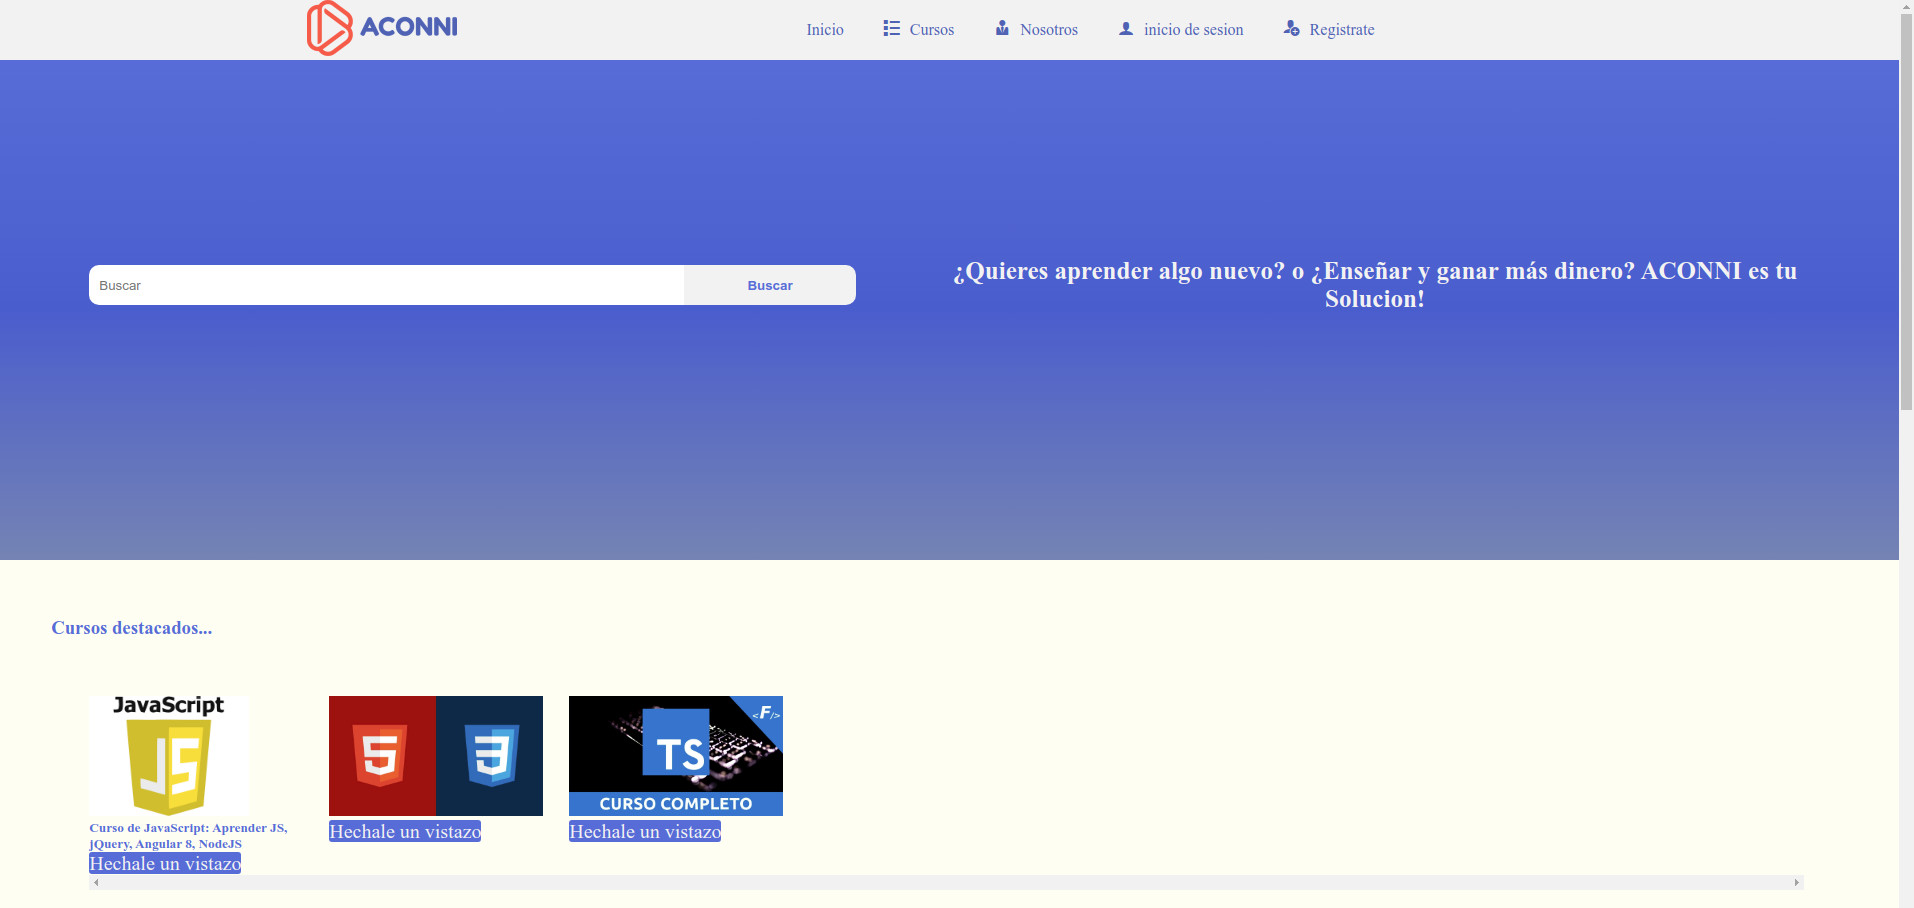
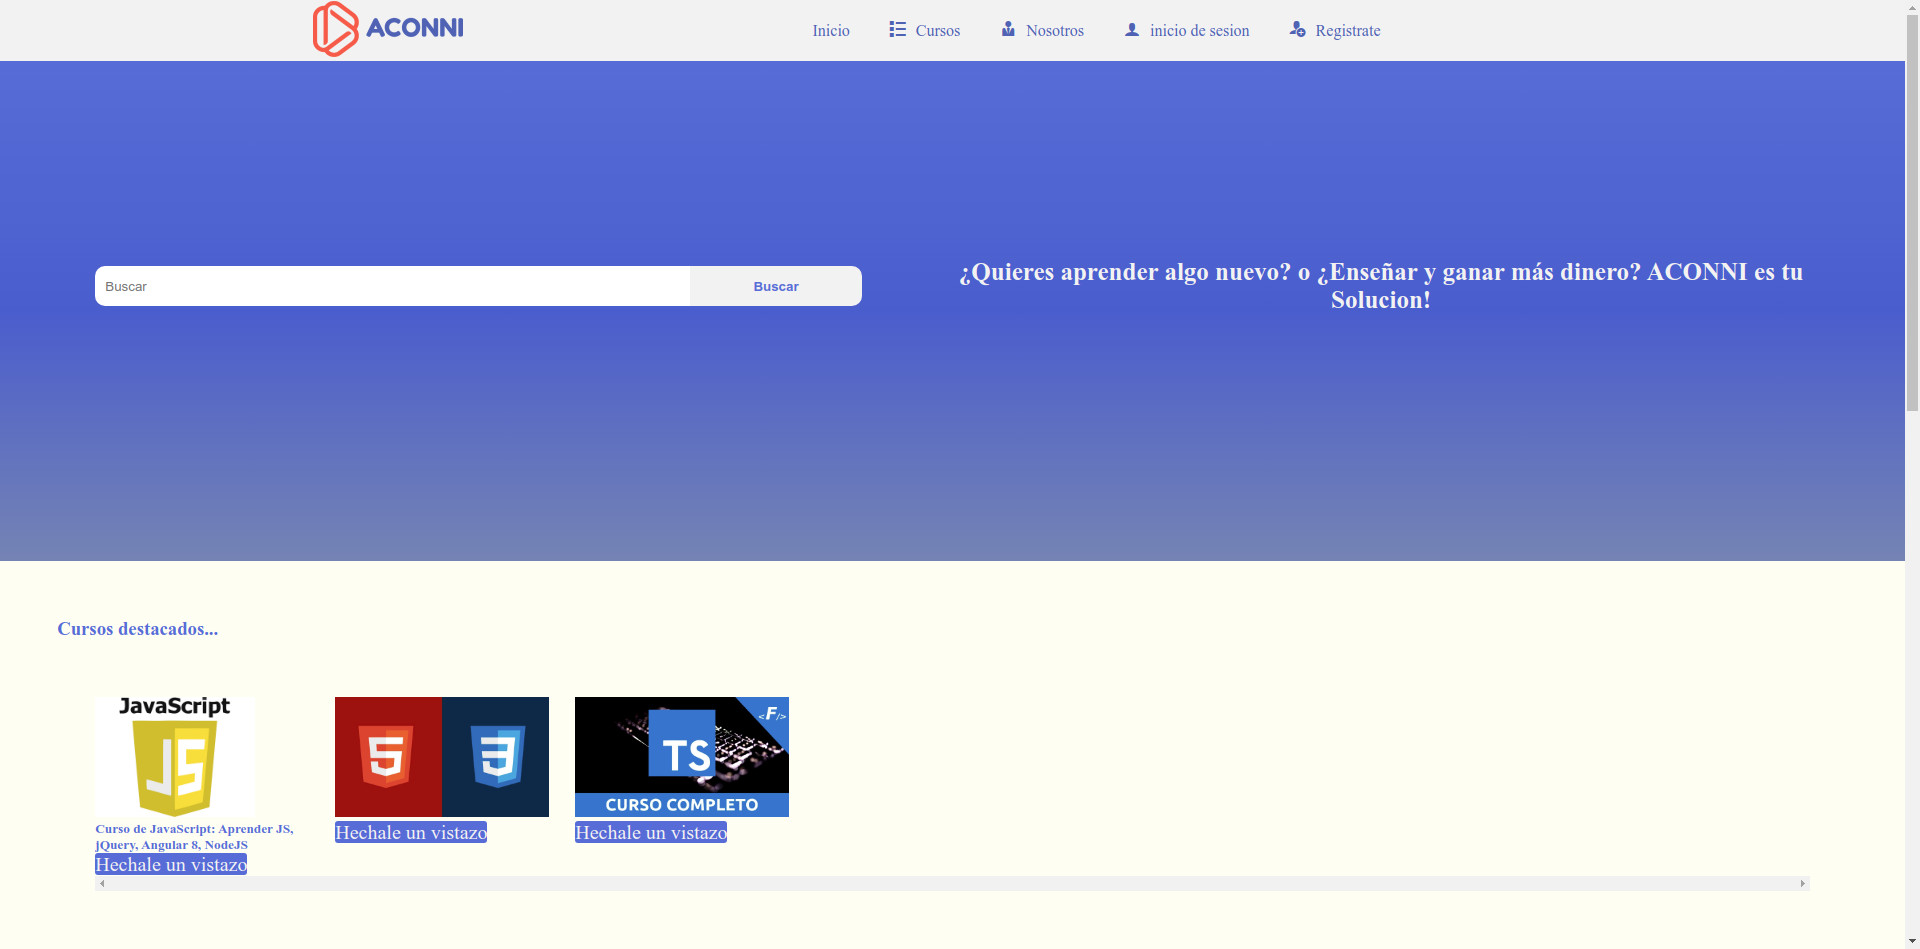
Mejora carousel

diff --git a/lib/owl.carousel.min.css b/lib/owl.carousel.min.css
@@ -3,4 +3,4 @@
  * Copyright 2013-2018 David Deutsch
  * Licensed under: SEE LICENSE IN https://github.com/OwlCarousel2/OwlCarousel2/blob/master/LICENSE
  */
-.owl-carousel,.owl-carousel .owl-item{-webkit-tap-highlight-color:transparent;position:relative}.owl-carousel{display:none;width:100%;z-index:1}.owl-carousel .owl-stage{position:relative;-ms-touch-action:pan-Y;touch-action:manipulation;-moz-backface-visibility:hidden}.owl-carousel .owl-stage:after{content:".";display:block;clear:both;visibility:hidden;line-height:0;height:0}.owl-carousel .owl-stage-outer{position:relative;overflow:hidden;-webkit-transform:translate3d(0,0,0)}.owl-carousel .owl-item,.owl-carousel .owl-wrapper{-webkit-backface-visibility:hidden;-moz-backface-visibility:hidden;-ms-backface-visibility:hidden;-webkit-transform:translate3d(0,0,0);-moz-transform:translate3d(0,0,0);-ms-transform:translate3d(0,0,0)}.owl-carousel .owl-item{min-height:1px;float:left;-webkit-backface-visibility:hidden;-webkit-touch-callout:none}.owl-carousel .owl-item img{display:block;width:100%}.owl-carousel .owl-dots.disabled,.owl-carousel .owl-nav.disabled{display:none}.no-js .owl-carousel,.owl-carousel.owl-loaded{display:block}.owl-carousel .owl-dot,.owl-carousel .owl-nav .owl-next,.owl-carousel .owl-nav .owl-prev{cursor:pointer;-webkit-user-select:none;-khtml-user-select:none;-moz-user-select:none;-ms-user-select:none;user-select:none}.owl-carousel .owl-nav button.owl-next,.owl-carousel .owl-nav button.owl-prev,.owl-carousel button.owl-dot{background:0 0;color:inherit;border:none;padding:0!important;font:inherit}.owl-carousel.owl-loading{opacity:0;display:block}.owl-carousel.owl-hidden{opacity:0}.owl-carousel.owl-refresh .owl-item{visibility:hidden}.owl-carousel.owl-drag .owl-item{-ms-touch-action:pan-y;touch-action:pan-y;-webkit-user-select:none;-moz-user-select:none;-ms-user-select:none;user-select:none}.owl-carousel.owl-grab{cursor:move;cursor:grab}.owl-carousel.owl-rtl{direction:rtl}.owl-carousel.owl-rtl .owl-item{float:right}.owl-carousel .animated{animation-duration:1s;animation-fill-mode:both}.owl-carousel .owl-animated-in{z-index:0}.owl-carousel .owl-animated-out{z-index:1}.owl-carousel .fadeOut{animation-name:fadeOut}@keyframes fadeOut{0%{opacity:1}100%{opacity:0}}.owl-height{transition:height .5s ease-in-out}.owl-carousel .owl-item .owl-lazy{opacity:0;transition:opacity .4s ease}.owl-carousel .owl-item .owl-lazy:not([src]),.owl-carousel .owl-item .owl-lazy[src^=""]{max-height:0}.owl-carousel .owl-item img.owl-lazy{transform-style:preserve-3d}.owl-carousel .owl-video-wrapper{position:relative;height:100%;background:#000}.owl-carousel .owl-video-play-icon{position:absolute;height:80px;width:80px;left:50%;top:50%;margin-left:-40px;margin-top:-40px;background:url(owl.video.play.png) no-repeat;cursor:pointer;z-index:1;-webkit-backface-visibility:hidden;transition:transform .1s ease}.owl-carousel .owl-video-play-icon:hover{-ms-transform:scale(1.3,1.3);transform:scale(1.3,1.3)}.owl-carousel .owl-video-playing .owl-video-play-icon,.owl-carousel .owl-video-playing .owl-video-tn{display:none}.owl-carousel .owl-video-tn{opacity:0;height:100%;background-position:center center;background-repeat:no-repeat;background-size:contain;transition:opacity .4s ease}.owl-carousel .owl-video-frame{position:relative;z-index:1;height:100%;width:100%}
+.owl-carousel,.owl-carousel .owl-item{-webkit-tap-highlight-color:transparent;position:relative}.owl-carousel{display:none;width:100%;z-index:1}.owl-carousel .owl-stage{position:relative;-ms-touch-action:pan-Y;touch-action:manipulation;-moz-backface-visibility:hidden}.owl-carousel .owl-stage:after{content:".";display:block;clear:both;visibility:hidden;line-height:0;height:0}.owl-carousel .owl-stage-outer{position:relative;overflow:hidden;-webkit-transform:translate3d(0,0,0)}.owl-carousel .owl-item,.owl-carousel .owl-wrapper{-webkit-backface-visibility:hidden;-moz-backface-visibility:hidden;-ms-backface-visibility:hidden;-webkit-transform:translate3d(0,0,0);-moz-transform:translate3d(0,0,0);-ms-transform:translate3d(0,0,0)}.owl-carousel .owl-item{min-height:1px;float:left;-webkit-backface-visibility:hidden;-webkit-touch-callout:none}.owl-carousel .owl-item img{display:block;width:95%}.owl-carousel .owl-dots.disabled,.owl-carousel .owl-nav.disabled{display:none}.no-js .owl-carousel,.owl-carousel.owl-loaded{display:block}.owl-carousel .owl-dot,.owl-carousel .owl-nav .owl-next,.owl-carousel .owl-nav .owl-prev{cursor:pointer;-webkit-user-select:none;-khtml-user-select:none;-moz-user-select:none;-ms-user-select:none;user-select:none}.owl-carousel .owl-nav button.owl-next,.owl-carousel .owl-nav button.owl-prev,.owl-carousel button.owl-dot{background:0 0;color:inherit;border:none;padding:0!important;font:inherit}.owl-carousel.owl-loading{opacity:0;display:block}.owl-carousel.owl-hidden{opacity:0}.owl-carousel.owl-refresh .owl-item{visibility:hidden}.owl-carousel.owl-drag .owl-item{-ms-touch-action:pan-y;touch-action:pan-y;-webkit-user-select:none;-moz-user-select:none;-ms-user-select:none;user-select:none}.owl-carousel.owl-grab{cursor:move;cursor:grab}.owl-carousel.owl-rtl{direction:rtl}.owl-carousel.owl-rtl .owl-item{float:right}.owl-carousel .animated{animation-duration:1s;animation-fill-mode:both}.owl-carousel .owl-animated-in{z-index:0}.owl-carousel .owl-animated-out{z-index:1}.owl-carousel .fadeOut{animation-name:fadeOut}@keyframes fadeOut{0%{opacity:1}100%{opacity:0}}.owl-height{transition:height .5s ease-in-out}.owl-carousel .owl-item .owl-lazy{opacity:0;transition:opacity .4s ease}.owl-carousel .owl-item .owl-lazy:not([src]),.owl-carousel .owl-item .owl-lazy[src^=""]{max-height:0}.owl-carousel .owl-item img.owl-lazy{transform-style:preserve-3d}.owl-carousel .owl-video-wrapper{position:relative;height:100%;background:#000}.owl-carousel .owl-video-play-icon{position:absolute;height:80px;width:80px;left:50%;top:50%;margin-left:-40px;margin-top:-40px;background:url(owl.video.play.png) no-repeat;cursor:pointer;z-index:1;-webkit-backface-visibility:hidden;transition:transform .1s ease}.owl-carousel .owl-video-play-icon:hover{-ms-transform:scale(1.3,1.3);transform:scale(1.3,1.3)}.owl-carousel .owl-video-playing .owl-video-play-icon,.owl-carousel .owl-video-playing .owl-video-tn{display:none}.owl-carousel .owl-video-tn{opacity:0;height:100%;background-position:center center;background-repeat:no-repeat;background-size:contain;transition:opacity .4s ease}.owl-carousel .owl-video-frame{position:relative;z-index:1;height:100%;width:100%}

diff --git a/index.html b/index.html
@@ -12,7 +12,7 @@
     <link href="https://fonts.googleapis.com/css?family=Merriweather&display=swap" rel="stylesheet">
 
     <!-- jQuery -->
-    <script type="text/javascript" src="js/jquery.js"></script>
+    <script type="text/javascript" src="lib/jquery.js"></script>
 
     <!-- carousel -->
     <link rel="stylesheet" href="lib/owl.carousel.min.css"> 
@@ -39,6 +39,9 @@
 #foto-perfil {
   border-radius: 80px;
   filter: drop-shadow(5px 5px 15px #444);
+}
+.item img {
+  filter: drop-shadow(3px 3px 3px #444);
 }
 </style>
   </head>
@@ -99,7 +102,7 @@
   <div class="Contenedor">
     <h3>Servicios</h3>
     <div class="Contenedor-servicios">
-      <div class="servicios violeta">
+      <div class="servicios amarillo">
         <h4>Función de la Web</h4>
         <p>Páginas web atractivas y funcionales con el objetivo de satisfacer todas tus expectativas. La importancia del diseño es fundamental para tener éxito y atraer a tus visitantes. También lo es la velocidad de carga del sitio web, deben ser rápidos para que el visitante tenga la mejor experiencia</p>
         <img class="icono" src="img/monitor.png">
@@ -113,7 +116,7 @@
         <img class="ondas" src="img/waves.png">
 
       </div>
-      <div class="servicios violeta">
+      <div class="servicios amarillo">
         <h4>SEO</h4>
         <p>Al crear sitios web, tengo muy en cuenta la optimización de motores de búsqueda (SEO). Llevo a cabo prácticas de SEO estándar en cada página del sitio web, lo que permite que tu sitio tenga una clasificación más alta en los resultados de Google y asi generar mas tráfico a la web</p>
         <img class="icono" src="img/seo.png">
@@ -127,7 +130,7 @@
         <img class="ondas" src="img/waves.png">
 
       </div>
-      <div class="servicios violeta">
+      <div class="servicios amarillo">
         <h4>Mantenimiento</h4>
         <p>Podés contactarme si necesitas actualizar tu página web, agregar nuevas secciones o cualquier cambio que necesites. Esto es perfecto para los sitios web de pequeñas empresas, donde no se necesita un diseñador de páginas web a tiempo completo, sino solo en distintas ocasiones</p>
         <img class="icono" src="img/mante.png">
@@ -167,21 +170,21 @@
   <div class="Contenedor">
     <h3>¿Por qué trabajar conmigo?</h3>
     <div class="contenedor-trabajar">
-      <div class="item">
+      <div class="items">
         <ul>
           <li><img src="img/velocidad.png"></li>
           <li>Velocidad</li>
           <li>Me aseguro de que tu web cargue entre 2 y 4 segundos (depende de la cantidad de contenido del sitio). Si una web tarda más de 5 segundos en cargar, el 70% de los usuarios lo cierra y no vuelve a entrar más</li>
         </ul>
       </div>
-      <div class="item">
+      <div class="items">
         <ul>
           <li><img src="img/mantenimiento.png"></li>
           <li>Mantenimiento</li>
           <li>Mantengo una comunicación constante con mi cliente, para enseñarle a modificar contenido mediante el panel de Wordpress o para cualquier duda/cambio que quiera hacer en su sitio web</li>
         </ul>
       </div>
-      <div class="item">
+      <div class="items">
         <ul>
           <li><img src="img/mobile2.png"></li>
           <li>Mobile Priority</li>
@@ -224,7 +227,7 @@
 
   <div class="Contenedor">
     <h3>Contacto</h3>
-    <form action="php/contact.php" method="POST" enctype="multipart/form-data"><!--post para que los datos se envien en forma oculta multipart para enviar archivos adjuntos-->
+    <form action="" method="POST" enctype="multipart/form-data"><!--post para que los datos se envien en forma oculta multipart para enviar archivos adjuntos-->
       <input type="text" placeholder="Nombre" name="name" pattern=[A-Z\sa-z]{3,20} required><!--php llama lo que este en el atributo name-->
       <input type="email" placeholder="Email" name="email" required>
       <textarea placeholder="Mensaje" name="message" required></textarea>

diff --git a/styles/style.css b/styles/style.css
@@ -42,7 +42,7 @@ header {
   margin-right: 0px;
   margin-bottom: 18vh;
   margin-left: 0px;*/
-  max-width: 1580px;
+  max-width: 1900px;
   width: 100%;
 }
 
@@ -123,9 +123,9 @@ h3{
   margin-bottom: 20px;
   height: 194px;
 }
-.Contenedor-servicios .violeta{/*llamada a los contenedores violestas que esten en .contedor-servicios*/
+.Contenedor-servicios .amarillo{/*llamada a los contenedores violestas que esten en .contedor-servicios*/
   background:
-  linear-gradient(to top, #5055df, #6d68f3);/*to top, para que el gradado valla de abajo hacia arriba herramientas: www.colorzila.com*/
+  linear-gradient(to top, #cfc312, #d6da17);/*to top, para que el gradado valla de abajo hacia arriba herramientas: www.colorzila.com*/
   box-shadow: 0 12px 30px 0 rgba(80, 85, 223, .37);/*box-shadow,la sombra del div. herramiento: www.cssmatic.com*/
 }
 .Contenedor-servicios .celeste {
@@ -155,6 +155,10 @@ span {
   text-align: center;
   color: #000;
 }
+.item img {
+  border: 5px solid black;
+  border-radius: 15px
+}
 
 /*Seccion por que trabjar conmigo*/
 
@@ -164,7 +168,7 @@ span {
   justify-content: space-around;
 }
 
-#por-que-trabajar .item {
+#por-que-trabajar .items {
   width: 28%;
   text-align: center;
 }
@@ -408,10 +412,10 @@ h3 {
 .contenedor-trabajar {
     flex-direction: column;
 }
-#por-que-trabajar .item {
+#por-que-trabajar .items {
     width: 100%;
 }
-.item ul {
+.items ul {
     padding: 0;
 }
 #blog .contenedor-publicaciones {
